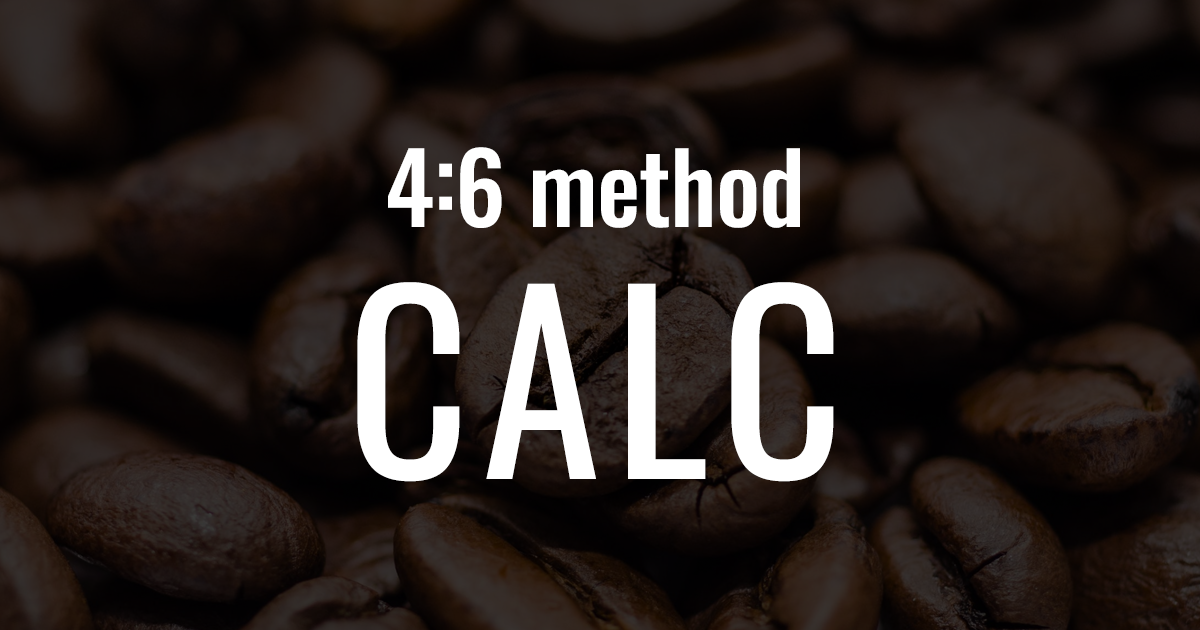
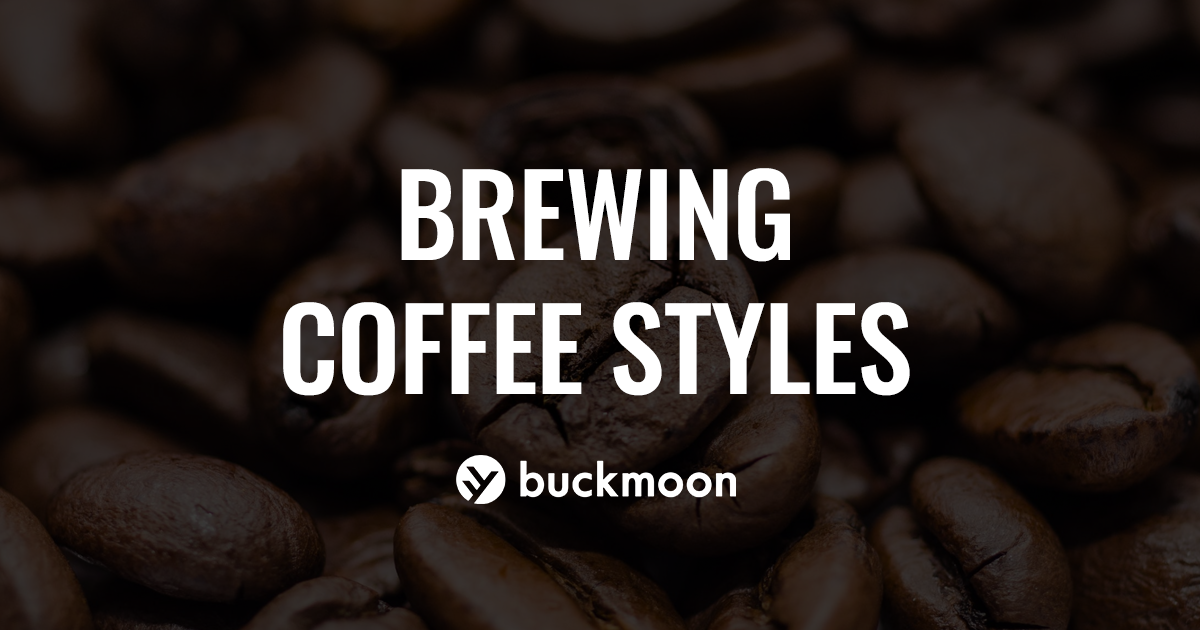
デザインの微調整、BREWING COFFEE STYLESに変更

Changed region(s): [[0.2158, 0.2413, 0.7708, 0.8143]]

diff --git a/pages/index.vue b/pages/index.vue
@@ -10,45 +10,6 @@ export default {
     },
     brewData: {
       method46: {
-        // steps: [
-        //   {
-        //     stepNumber: 1,
-        //     memo: '',
-        //     time: 0,
-        //     waterPerBean: 2.5
-        //   },
-        //   {
-        //     stepNumber: 2,
-        //     memo: '',
-        //     time: 45,
-        //     waterPerBean: 6
-        //   },
-        //   {
-        //     stepNumber: 3,
-        //     memo: '',
-        //     time: 1 * 60 + 30,
-        //     waterPerBean: 9
-        //   },
-        //   {
-        //     stepNumber: 4,
-        //     memo: '',
-        //     time: 2 * 60 + 10,
-        //     waterPerBean: 12
-        //   },
-        //   {
-        //     stepNumber: 5,
-        //     memo: '',
-        //     time: 2 * 60 + 45,
-        //     waterPerBean: 15
-        //   },
-        //   {
-        //     stepNumber: 6,
-        //     memo: '',
-        //     time: 3 * 60 + 30,
-        //     waterPerBean: -1,
-        //     lastStepFlg: true
-        //   }
-        // ]
         steps: [
           {
             stepNumber: 1,
@@ -59,35 +20,74 @@ export default {
           {
             stepNumber: 2,
             memo: '',
-            time: 3,
+            time: 45,
             waterPerBean: 6
           },
           {
             stepNumber: 3,
             memo: '',
-            time: 6,
+            time: 1 * 60 + 30,
             waterPerBean: 9
           },
           {
             stepNumber: 4,
             memo: '',
-            time: 9,
+            time: 2 * 60 + 10,
             waterPerBean: 12
           },
           {
             stepNumber: 5,
             memo: '',
-            time: 12,
+            time: 2 * 60 + 45,
             waterPerBean: 15
           },
           {
             stepNumber: 6,
             memo: '',
-            time: 15,
-            waterPerBean: 15,
+            time: 3 * 60 + 30,
+            waterPerBean: -1,
             lastStepFlg: true
           }
         ]
+        // steps: [
+        //   {
+        //     stepNumber: 1,
+        //     memo: '',
+        //     time: 0,
+        //     waterPerBean: 2.5
+        //   },
+        //   {
+        //     stepNumber: 2,
+        //     memo: '',
+        //     time: 3,
+        //     waterPerBean: 6
+        //   },
+        //   {
+        //     stepNumber: 3,
+        //     memo: '',
+        //     time: 6,
+        //     waterPerBean: 9
+        //   },
+        //   {
+        //     stepNumber: 4,
+        //     memo: '',
+        //     time: 9,
+        //     waterPerBean: 12
+        //   },
+        //   {
+        //     stepNumber: 5,
+        //     memo: '',
+        //     time: 12,
+        //     waterPerBean: 15
+        //   },
+        //   {
+        //     stepNumber: 6,
+        //     memo: '',
+        //     time: 15,
+        //     waterPerBean: 15,
+        //     lastStepFlg: true
+        //   }
+        // ]
       }
     }
   }),
@@ -183,12 +183,20 @@ export default {
       <div class="bm-brewing-coffee-setup">
         <div class="body">
           <div>
-            <div class="title">Brewing Coffee Styles</div>
+            <div class="title">BREWING<br>COFFEE STYLES</div>
             <div class="coffee-setup">
-              <div class="description">何グラムの豆で抽出しますか？</div>
               <div class="form">
-                <input v-model="beanAmount" type="number" pattern="\d*" max="999" min="0">
-                <div class="unit number">g</div>
+                <div class="filed">
+                  <label>豆の量</label>
+                  <input v-model="beanAmount" type="number" pattern="\d*" max="999" min="0" class="bm-form-control" data-format="$1 g">
+                  <div class="unit">g</div>
+                </div>
+                <div class="filed">
+                  <label>淹れ方</label>
+                  <select name="brewing-type" class="bm-form-control">
+                    <option value="46method">4:6 Method</option>
+                  </select>
+                </div>
               </div>
               <div class="button" @click="startTimer">START</div>
             </div>
@@ -201,7 +209,7 @@ export default {
             </a>
           </div>
           <div class="quote">
-            このシミュレーターは、バリスタ世界チャンピオン・粕谷哲さんの
+            バリスタ世界チャンピオン・粕谷哲さんの
             <a
               href="https://www.buzzfeed.com/jp/koumibaisen/coffee-lesson"
             >&nbsp;4:6 method</a>&nbsp;を参考に作成しています。
@@ -235,13 +243,16 @@ export default {
             <span class="unit">ml</span>
           </div>
           <div v-if="shouldAlertNextStep" class="text">まで注水してください</div>
+          <div v-if="!shouldAlertNextStep" class="text">ドリッパーを外してください</div>
           <div class="separate"></div>
           <div v-if="shouldAlertNextStep" class="time">
             <span class="text">NEXT</span>
             {{ timeToNextStep }}s
           </div>
-          <div v-else>ドリッパーを外してください</div>
-          <div class="action">
+          <div v-else class="time">
+            <span class="text">END</span>
+          </div>
+          <div v-if="shouldAlertNextStep" class="action">
             <div
               v-if="isTimerInitialized || isTimerPaused"
               class="button start"
@@ -273,7 +284,7 @@ export default {
           <div class="bm-brewing-coffee-steps">
             <div
               v-for="step in brewData.method46.steps"
-              v-bind:key="step.stepNumber"
+              :key="step.stepNumber"
               :class="{ active: step.stepNumber == stepNumber }"
               class="step"
             >

diff --git a/assets/css/main.sass b/assets/css/main.sass
@@ -1,4 +1,5 @@
 $COLOR_PRIMARY: #FBFE7A
+$COLOR_WHITE: #FFF
 $FONT_FAMILY_BASE: "Oswald", sans-serif
 
 html,
@@ -199,54 +200,64 @@ body
     margin: 0 auto
     flex: 1
     .title
-      font-size: 30px
+      font-size: 40px
       font-family: "Oswald", sans-serif
-      margin-bottom: 40px
+      margin-bottom: 20px
       text-align: center
+      line-height: 1.2
   & > .footer
-    padding: 30px
+    padding: 4px 20px 20px 20px
     text-align: center
 
 .coffee-setup
-  margin: 0 auto 25px auto
-  text-align: center
-
-  & > .description
-    font-size: 15px
-    margin-bottom: 30px
+  margin: 0 auto 15px auto
 
   & > .form
-    display: inline-flex
-    align-items: flex-end
     margin-bottom: 20px
-    input
-      background: transparent
-      font-family: "Oswald", sans-serif
-      border: 0
-      border-bottom: 2px solid #fff
-      outline: none
-      padding: 4px 35px 4px 10px
-      color: #fbff7a
-      font-size: 36px
-      width: 60px
-      text-align: right
+    .filed
+      padding: 8px 0
+      display: flex
+      align-items: center
+    label
+      font-size: 18px
+      color: rgba($COLOR_WHITE, 0.9)
+      width: 75px
+      margin: 0 8px -2px 0
     .unit
       font-size: 24px
+      color: rgba($COLOR_WHITE, 0.7)
       position: relative
-      bottom: 20px
-      right: 28px
+      left: -18px
+      bottom: -7px
 
   & > .button
-    padding: 18px
-    width: 180px
-    margin: 30px auto 0 auto
-    font-size: 20px
+    box-sizing: border-box
+    padding: 15px 18px
+    width: 100%
+    margin: 35px auto 0 auto
+    font-size: 28px
     border: 2px solid #fff
+    text-align: center
+    font-family: "Oswald", sans-serif
+
+.bm-form-control
+  appearance: none
+  background: transparent
+  color: $COLOR_PRIMARY
+  font-family: "Oswald", sans-serif
+  border: 0
+  outline: none
+  padding: 6px
+  font-size: 34px
+  border-radius: 0
+  border-bottom: 2px solid #fff
 
 .bm-brewing-coffee-steps
   display: flex
   justify-content: space-between
   align-items: center
+  max-width: 500px
+  margin: 0 auto
   & > .step
     flex: 1
     text-align: center
@@ -302,14 +313,15 @@ body
 
 .bm-brewing-coffee-now
   margin: 0 auto
-  max-width: 280px
+  max-width: 400px
+  min-width: 280px
   text-align: center
   display: flex
   flex-direction: column
   justify-content: center
   text-align: center
   & > .weight
-    font-size: 100px
+    font-size: 92px
     margin-bottom: 20px
     font-family: $FONT_FAMILY_BASE
     font-weight: 300
@@ -326,14 +338,16 @@ body
     font-size: 60px
     font-family: $FONT_FAMILY_BASE
     color: $COLOR_PRIMARY
+    font-weight: 300
     .text
       font-weight: 200
       margin-right: 12px
+      opacity: 0.9
   & > .action
     display: flex
     justify-content: center
     align-items: center
-    margin-top: 15px
+    margin-top: 20px
     .button
       width: 40px
       height: 40px

diff --git a/nuxt.config.js b/nuxt.config.js
@@ -7,7 +7,7 @@ export default {
    ** Headers of the page
    */
   head: {
-    title: pkg.name,
+    title: 'BREWING COFFEE STYLES',
     meta: [
       { charset: 'utf-8' },
       {
@@ -19,18 +19,18 @@ export default {
         hid: 'description',
         name: 'description',
         content:
-          'バリスタ世界チャンピオン・粕谷哲さんの考案したコーヒーの抽出方法 4:6 method で注水する量を手軽に計算できるシミュレーターです。'
+          '様々なコーヒーの抽出方法の注水量・時間を測ることができるタイマーです。バリスタ世界チャンピオン・粕谷哲さんの考案したコーヒーの抽出方法 4:6 method を参考に作成しています。'
       },
       { name: 'apple-mobile-web-app-title', content: '4:6 Calc' },
       { name: 'application-name', content: '4:6 Calc' },
       { name: 'apple-mobile-web-app-capable', content: 'yes' },
       { property: 'og:type', content: 'website' },
       { property: 'og:url', content: 'https://46coffee.buckmoon.io/' },
-      { property: 'og:title', content: 'Calculator for 4:6 method of coffee' },
+      { property: 'og:title', content: 'BREWING COFFEE STYLES' },
       {
         property: 'og:description',
         content:
-          'バリスタ世界チャンピオン・粕谷哲さんの考案したコーヒーの抽出方法 4:6 method で注水する量を手軽に計算できるシミュレーターです。'
+          '様々なコーヒーの抽出方法の注水量・時間を測ることができるタイマーです。バリスタ世界チャンピオン・粕谷哲さんの考案したコーヒーの抽出方法 4:6 method を参考に作成しています。'
       },
       { property: 'og:image', content: 'https://46coffee.buckmoon.io/fb.png' },
       { name: 'msapplication-TileColor', content: '#000000' },
